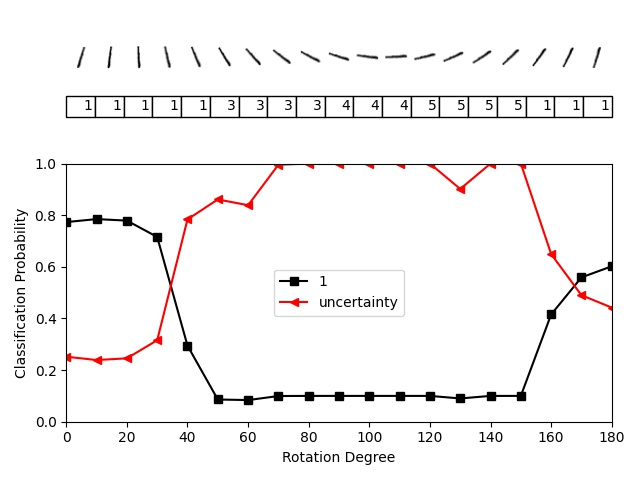
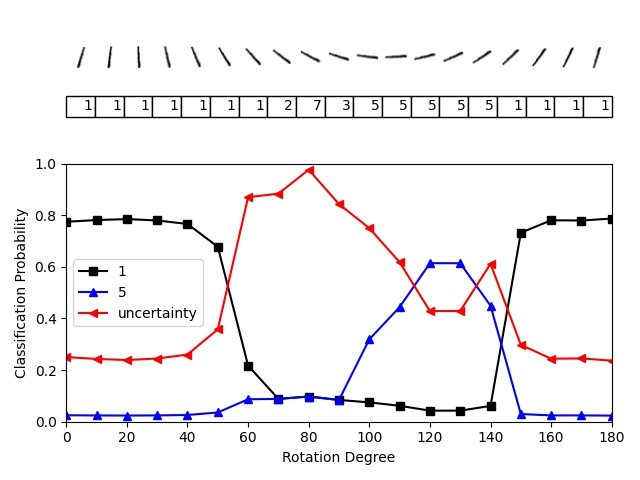
resent zoom analysis

diff --git a/main.py b/main.py
@@ -4,6 +4,7 @@ import torch.optim as optim
 import torch.nn.functional as F
 from torchvision.datasets.mnist import MNIST
 import torchvision.transforms as transforms
+from torchvision.models.resnet import resnet18
 from torch.utils.data import DataLoader
 from torch.autograd import Variable
 
@@ -65,7 +66,11 @@ def main():
         use_uncertainty = args.uncertainty
         num_classes = 10
 
-        model = LeNet(dropout=args.dropout)
+        #model = LeNet(dropout=args.dropout)
+        model = resnet18(False, num_classes=10)
+        # Have ResNet model take in grayscale rather than RGB
+        model.conv1 = torch.nn.Conv2d(1, 64, kernel_size=7, stride=2, padding=3, bias=False)
+
 
         if use_uncertainty:
             if args.digamma:
@@ -117,7 +122,12 @@ def main():
 
         use_uncertainty = args.uncertainty
         device = get_device()
-        model = LeNet()
+        #model = LeNet()
+        #model = LeNet(dropout=args.dropout)
+        model = resnet18(False, num_classes=10)
+        # Have ResNet model take in grayscale rather than RGB
+        model.conv1 = torch.nn.Conv2d(1, 64, kernel_size=7, stride=2, padding=3, bias=False)
+
         model = model.to(device)
         optimizer = optim.Adam(model.parameters())
 
@@ -149,8 +159,10 @@ def main():
 
         #test_single_image(model, img, uncertainty=use_uncertainty)
         
-        for i, tensor_img in enumerate([digit_zero, digit_one, digit_two, digit_three, digit_four, digit_five, digit_six, digit_seven, digit_eight, digit_nine]):
-            filename = "./results/zoom_uncertainty_mse_digit_"+str(i)+".jpg"
+        for i, tensor_img in enumerate([digit_zero, digit_one, digit_two, 
+                                        digit_three, digit_four, digit_five,
+                                        digit_six, digit_seven, digit_eight, digit_nine]):
+            filename = "./results/resnet_zoom_uncertainty_mse_affine_"+str(i)+".jpg"
             zoom_image_classification(
                 model, tensor_img, filename, uncertainty=use_uncertainty)
         

diff --git a/data.py b/data.py
@@ -7,6 +7,7 @@ data_train = MNIST("./data/mnist",
                    download=True,
                    train=True,
                    transform=transforms.Compose([
+                       transforms.RandomAffine(degrees=0,translate=(0.2,0.2),scale=(0.6,1.0)),
                        transforms.Resize((28, 28)),
                        transforms.ToTensor()]))
 
@@ -14,6 +15,7 @@ data_val = MNIST("./data/mnist",
                  train=False,
                  download=True,
                  transform=transforms.Compose([
+                     #transforms.RandomAffine(degrees=0,translate=(0.2,0.2),scale=(0.5,1.0)),
                      transforms.Resize((28, 28)),
                      transforms.ToTensor()]))
 
